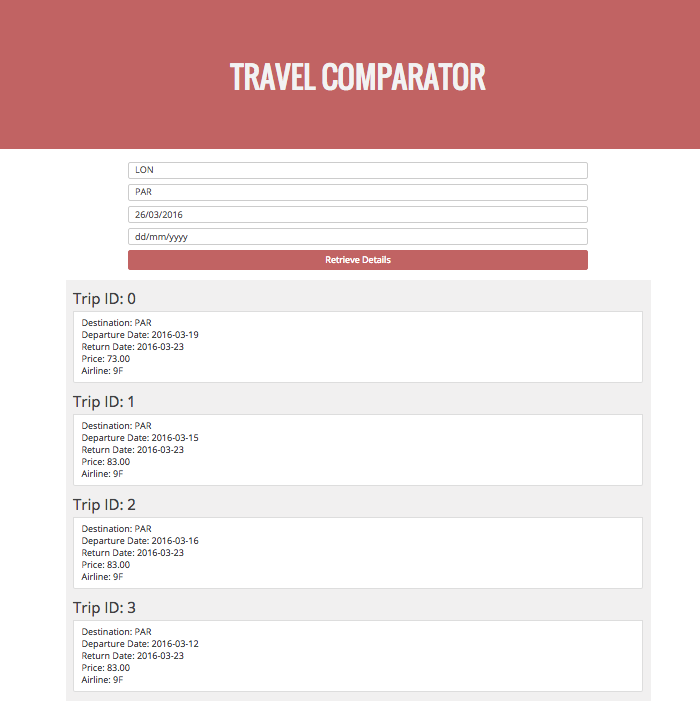
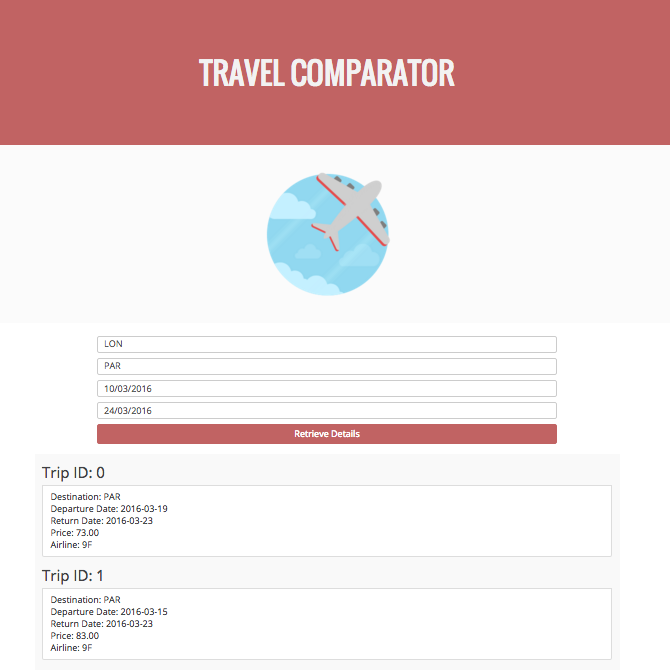
CSS changes

Changed region(s): [[0.0597, 0.4179, 0.8358, 0.9851], [0.0, 0.209, 1.0, 0.4478], [0.2985, 0.0896, 0.7164, 0.1493]]

diff --git a/public/css/master.css b/public/css/master.css
@@ -46,7 +46,13 @@ header {
   list-style: none; }
 
 .container {
-  background: #f1f0f0; }
+  background: #f9f9f9; }
+
+.icon {
+  display: flex;
+  justify-content: center;
+  background: #fbfbfb;
+  padding: 50px 0; }
 
 @media screen and (max-width: 775px) {
   .form-horizontal {

diff --git a/public/views/index.html b/public/views/index.html
@@ -13,6 +13,10 @@
       <h1 class="heading">Travel Comparator</h1>
     </header>
 
+    <div class="icon">
+      <img src="/images/icon.png" alt="" />
+    </div>
+
     <div class="form">
       <form class="form-horizontal">
         <div class="form-group">

diff --git a/public/css/master.scss b/public/css/master.scss
@@ -58,7 +58,14 @@ header {
 }
 
 .container {
-  background: #f1f0f0;
+  background: #f9f9f9;
+}
+
+.icon {
+  display: flex;
+  justify-content: center;
+  background: #fbfbfb;
+  padding: 50px 0;
 }
 
 @media screen and (max-width: 775px) {
